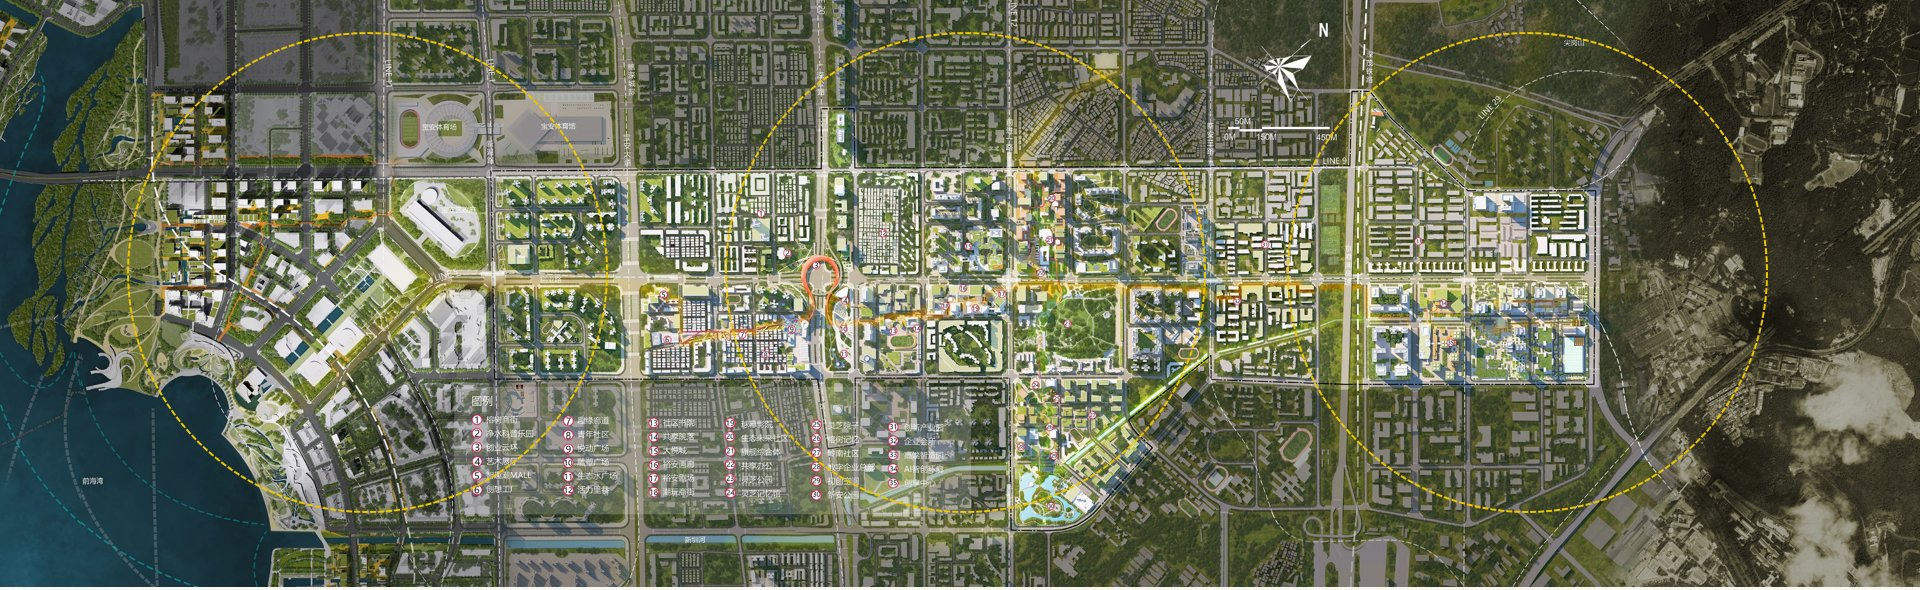
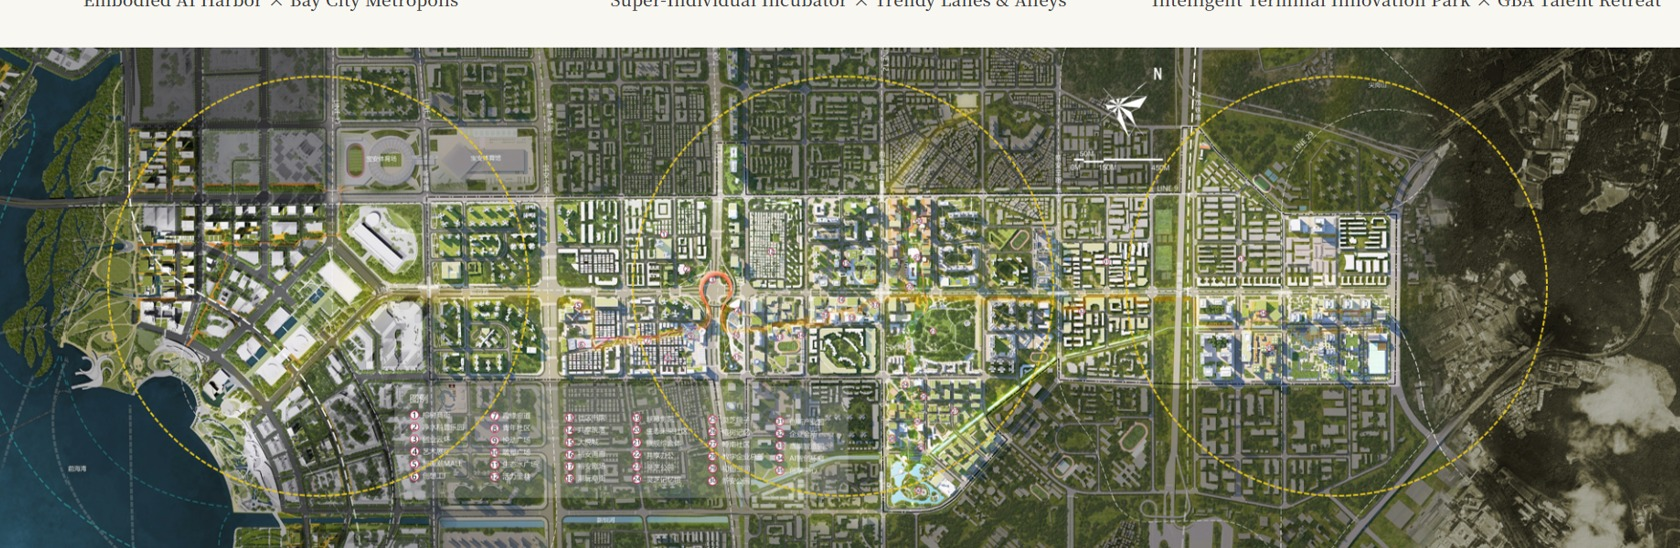
Overview: full map contain, match reference layout

diff --git a/index.html b/index.html
@@ -110,14 +110,14 @@
 .bridge-rule{width:42px;height:3px;background:var(--orange);margin:0 auto 28px}
 .bridge-slogan{font-size:clamp(15px,1.45vw,20px);letter-spacing:.08em;color:#c3c8c0;font-weight:480}
 /* overview */
-.ov-wrap{display:grid;grid-template-rows:auto minmax(0,1fr) auto;gap:4px;width:100%;height:calc(100svh - 10vh);max-width:1680px;margin:auto;padding:0}
-.ov-top{display:grid;grid-template-columns:1fr 1fr 1fr;gap:12px;text-align:center;align-items:end;width:100%;margin:0;padding:0}
+.ov-wrap{display:grid;grid-template-rows:auto minmax(0,1fr) auto;gap:10px;width:100%;height:calc(100svh - 12vh);max-width:1600px;margin:auto;padding:0}
+.ov-top{display:grid;grid-template-columns:1fr 1fr 1fr;gap:18px;text-align:center;align-items:end;width:100%;margin:0 auto;padding:0 1%}
 .ov-district{font-size:clamp(15px,1.5vw,20px);letter-spacing:-.02em;font-weight:600;color:var(--ink)}
 .ov-en{font-size:9px;letter-spacing:.14em;color:var(--muted);margin-top:1px;text-transform:uppercase}
 .ov-claim{font-weight:600;font-size:clamp(13px,1.25vw,17px);letter-spacing:-.02em;margin-top:6px;line-height:1.3;color:var(--orange)}
-.ov-claim-en{display:none}
-.ov-map{min-height:0;flex:1;display:flex;align-items:stretch;justify-content:center;overflow:hidden;border-radius:3px;margin:0}
-.ov-map img{width:100%;height:100%;object-fit:cover;object-position:center;display:block;min-height:min(64vh,680px)}
+.ov-claim-en{font-size:10px;color:#696b64;margin-top:4px;letter-spacing:.02em;line-height:1.35;display:block}
+.ov-map{min-height:0;flex:1;display:flex;align-items:center;justify-content:center;overflow:hidden;border-radius:2px;margin:0;background:transparent}
+.ov-map img{width:100%;height:auto;max-height:min(62vh,640px);object-fit:contain;object-position:center;display:block}
 .ov-bottom{text-align:center;padding-top:6px}
 .ov-footer-cn{font-weight:600;font-size:clamp(20px,2.2vw,32px);letter-spacing:-.02em;line-height:1.3}
 .ov-footer-en{font-size:11px;letter-spacing:.1em;color:var(--muted);margin-top:6px}
@@ -432,7 +432,7 @@
         </div>
       </div>
       <div class="ov-map">
-        <img src="assets/map-overview.jpg" alt="三类创新生态总图：宝安中心、灵芝、尖岗山">
+        <img src="assets/map-overview.jpg?v=2" alt="三类创新生态总图：宝安中心、灵芝、尖岗山">
       </div>
       <div class="ov-bottom">
         <div class="ov-footer-cn">三类创新生态 三种美好生活</div>
